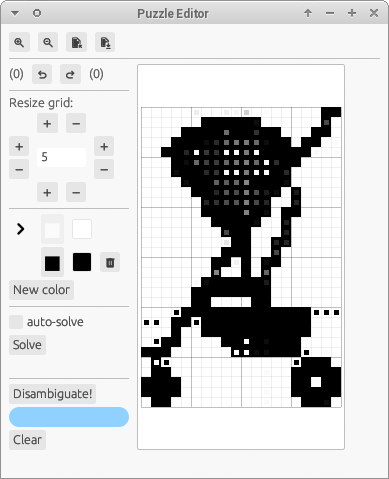
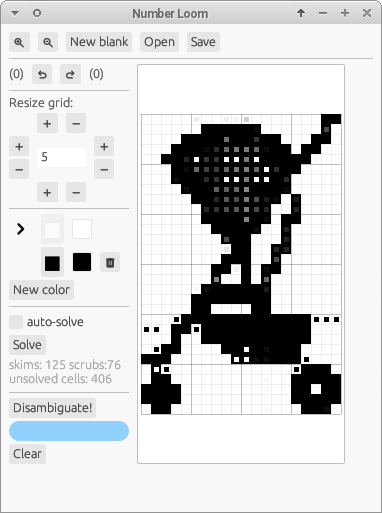
Update README and GUI a little bit.

diff --git a/src/gui.rs b/src/gui.rs
@@ -319,7 +319,11 @@ impl NonogramGui {
     }
 
     fn resizer(&mut self, ui: &mut egui::Ui) {
-        ui.label("Resize grid:");
+        ui.label(format!(
+            "Canvas size: {}x{}",
+            self.picture.x_size(),
+            self.picture.y_size(),
+        ));
 
         egui::Grid::new("resizer").show(ui, |ui| {
             ui.label("");
@@ -676,7 +680,10 @@ impl eframe::App for NonogramGui {
                                 solution: _solution,
                                 solved_mask,
                             }) => {
-                                self.solve_report = format!("{}/{}/{}", skims, scrubs, cells_left);
+                                self.solve_report = format!(
+                                    "skims: {} scrubs: {} unsolved cells: {}",
+                                    skims, scrubs, cells_left
+                                );
                                 self.solved_mask = solved_mask;
                             }
                             Err(e) => self.solve_report = format!("Error: {:?}", e),

diff --git a/README.md b/README.md
@@ -4,6 +4,8 @@
 
 ![Screenshot of a GUI editor](screenshot.png)
 
+*Spot an uninvasive change that makes the solver able to solve the puzzle!*
+
 It's still pretty janky, but it's also the most powerful such tool I know of. In particular, it can offer suggestions for how to make an unsolveable puzzle solveable!
 
 ## Features
@@ -14,7 +16,7 @@ It's still pretty janky, but it's also the most powerful such tool I know of. In
   * Images (typical extension: `.png`)
   * `char-grid`, a plaintext grid of characters, which it attempts to infer a reasonable character-to-color mapping (extension: `.txt`)
   * HTML, for export only, as a printable puzzle (extension `.html`)
-* Has (poorly-tested) support for "Trianograms", a rare variation with triangular cells that may appear as caps to clues.
+* Has support for "Trianograms", a rare variation with triangular cells that may appear as caps to clues.
 * A line-logic solver (currently not quite as powerful as it should be!) that provides some difficulty information.
 * A tool that searches for one-cell edits that make puzzles closer to solveable.
 
@@ -25,11 +27,11 @@ If you don't have `cargo` on your computer already, [install it through `rustup`
 
 Then run `cargo install number-loom`.
 
-To open the gui, you have to pick a nonogram to open: `number-loom` or `number-loom examples/png/keys.png --gui`.
+To open the gui: `number-loom` or `number-loom examples/png/keys.png --gui`.
 
 To solve a puzzle from the command line, do `number-loom examples/png/hair_dryer.png`.
 
-To convert a puzzle from the command line, do `number-loom examples/png/hair_dryer.png /tmp/hair_dryer.xml`.
+To convert a puzzle from the command line, do `number-loom examples/png/hair_dryer.png /tmp/hair_dryer.xml`.  Use `--input-format` or `--output-format` to explicitly select `webpbn`, `olsak`, `image`, `char-grid`, or `html`. (The image format is still inferred from the filename.)
 
 ## Solver
 
@@ -41,22 +43,24 @@ It has two modes:
 
 It stores progress by noting each possibly-remaining color in each cell. Even though a human solver typically only notes down known cells, in my experience this corresponds pretty well to the sort of ad-hoc logic that solvers perform on color nonograms when they glance at the both lines that contain a cell.
 
+Looking at the number of scrubs and skims can tell you something about the difficulty of a puzzle. Unless you're aiming for an easy puzzle, the solver should have to do some scrubs. If the number of scrubs is higher than the width plus the length, or the number of skims is more than five times that, it's starting to get tedious relative to the size of the puzzle. This is a *very* rough guide, though; the solver definitely doesn't measure difficulty completely accurately.
+
 ## GUI
 
 The GUI is very basic, but you can
 
 * Save and load
 * Zoom in and out
-* Adjust the size of the canvas (choosing which direction to add or remove lines)
+* Adjust the size of the canvas from any side
 * Add, remove, or recolor palette entries
 * Solve the puzzle (it paints gray dots over unsolved cells), optionally automatically after each edit
 * Disambiguate
 
 ### Disambiguation
 
-This may take a little bit of time, but it's typically reasonably fast for puzzles under 40x40. Cells will be painted with an alternate color, with an opacity proportional to the number of unsolved cells that are resolved if painted that color.
+This may take a little bit of time, but it's typically reasonably fast for puzzles under 40x40. Cells will be painted with an alternate color, with an opacity proportional to the number of unsolved cells that are resolved if that single cell is changed to that color. (It only ever displays one color, but there might be others that work just as well!)
 
-It works by simply resolving the puzzle with every possible one-square change. But it caches intermediate deductions to speed the process up.
+It works by simply re-solving the puzzle with every possible one-square change. But it caches intermediate deductions to speed the process up. Typically, the more ambiguous the puzzle, the faster it is, so doing a guess-and-check with "auto-solve" turned on is a better way to hammer out the last few ambiguities.
 
 ## Usage with other solvers
 
